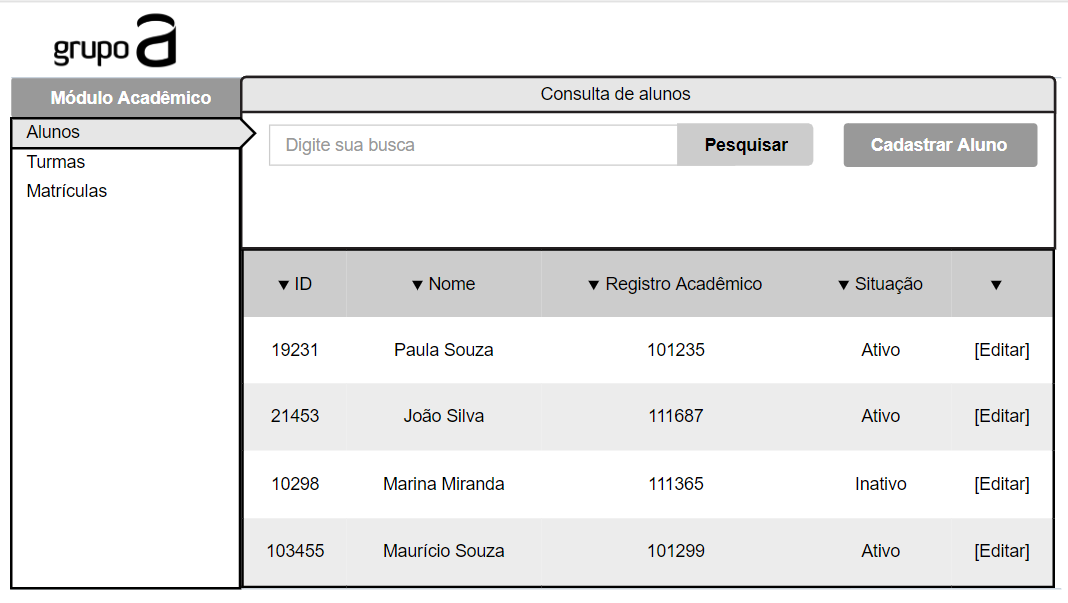
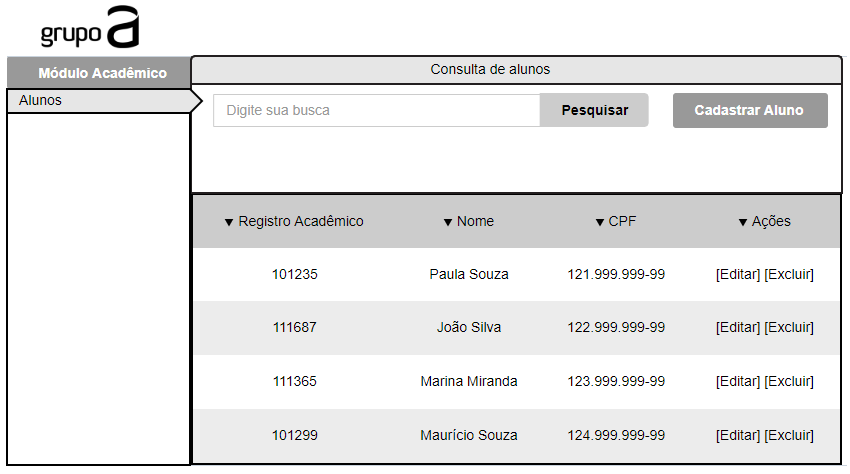
Update challenge

Changed region(s): [[0.0, 0.0, 1.0, 1.0]]

diff --git a/README.md b/README.md
@@ -29,29 +29,76 @@ Abaixo alguns mockoups de interface como um guia para a criação do front-end. 
 * Criar/Editar Aluno
 ![Listagem de Alunos](/mockups/studants_save.png)
 
-## Histórias de Usuário
-### Cadastro de usuário
+## Histórias do Usuário
 - **Sendo** um usuário administrativo da Instituição
-- **Quero** cadastrar um aluno
-- **Para** que eu possa realizar a matrícula deste aluno
-#### Critérios de aceite:
-- **Dado** que estou na tela de cadastro
-- **E** preenchi os dados obrigatórios válidos
-- **Quando** clico em salvar 
-- **Então** armazeno os dados na tabela alunos
+- **Quero** gerenciar cadastros de alunos
+- **Para** que eu possa realizar a matrícula do aluno
 
-## Estrutura de dados
-### Criação de Usuário:
-- Campos obrigatórios:
-  - Nome
-  - Registro Acadêmico (RA)
-  - Documento (CPF)
-  - Status: Ativo ou Inativo
+### Critérios de aceite: 
+
+#### Cenário: cadastrar novo aluno
+- **Dado** que estou na tela de Consulta de Alunos
+- **Quando** clico em Cadastrar Aluno
+- **Então** abre a tela de Cadastro do Aluno
+- **E** exibe os campos obrigatórios vazios
+####
+- **Dado** que inseri dados válidos nos campos
+- **Quando** clico em Salvar
+- **Então** cria o novo aluno na base
+- **E** retorna mensagem de sucesso
+####
+- **Dado** que inseri dados válidos nos campos
+- **Quando** clico em Cancelar
+- **Então** retorna para tela Consulta de Alunos
+- **E** não persiste a gravação dos dados no banco 
+
+#### Cenário: listar alunos cadastrados 
+- **Dado** que estou no Módulo Acadêmico
+- **Quando** clico no menu Alunos
+- **Então** abre a tela de Consulta de Alunos 
+- **E** exibe opção Cadastrar Aluno ao topo
+- **E** lista dados dos alunos cadastrados
+- **E** exibe opção Editar por aluno
+- **E** exibe opção Excluir por aluno
+
+#### Cenário editar cadastro de aluno
+- **Dado** que estou na listagem de alunos
+- **Quando** clico em Editar aluno
+- **Então** abre a tela de Cadastro do Aluno 
+- **E** exibe os campos do cadastro preenchidos
+- **E** habilita alteração dos campos editáveis
+####
+- **Dado** que estou na tela de Cadastro do Aluno
+- **Quando** clica em Salvar
+- **Então** grava os dados editáveis na base
+####
+- **Dado** que estou na tela de Cadastro do Aluno
+- **Quando** clica em Cancelar
+- **Então** retorna para a tela de Consulta de Alunos
+- **E** não persiste a gravação dos dados
+
+#### Cenário: excluir cadastro de aluno
+- **Dado** que estou na listagem de alunos
+- **Quando** clico em Excluir aluno
+- **Então** exibe a modal de confirmação de exclusão
+####
+- **Dado** que estou na modal de confirmação de exclusão 
+- **Quando** clico em Confirmar
+- **Então** então exclui o registro do aluno
+####
+- **Dado** que estou na modal de confirmação de exclusão
+- **Quando** clico em Cancelar
+- **Então** então fecha a modal e não persiste a exclusão
+
+## Campos obrigatórios:
+- **Nome** (editável)
+- **Email** (editável)
+- **RA** (não editável) (chave única)
+- **CPF** (não editável)
 
 # Desejável
 - Testes unitários
 - Documentação da arquitetura de solução
-- Utilização de Recursos em Cloud, podendo ser AWS ou GCLOUD
 
 # Critérios de avaliação
 - Qualidade de escrita do código
